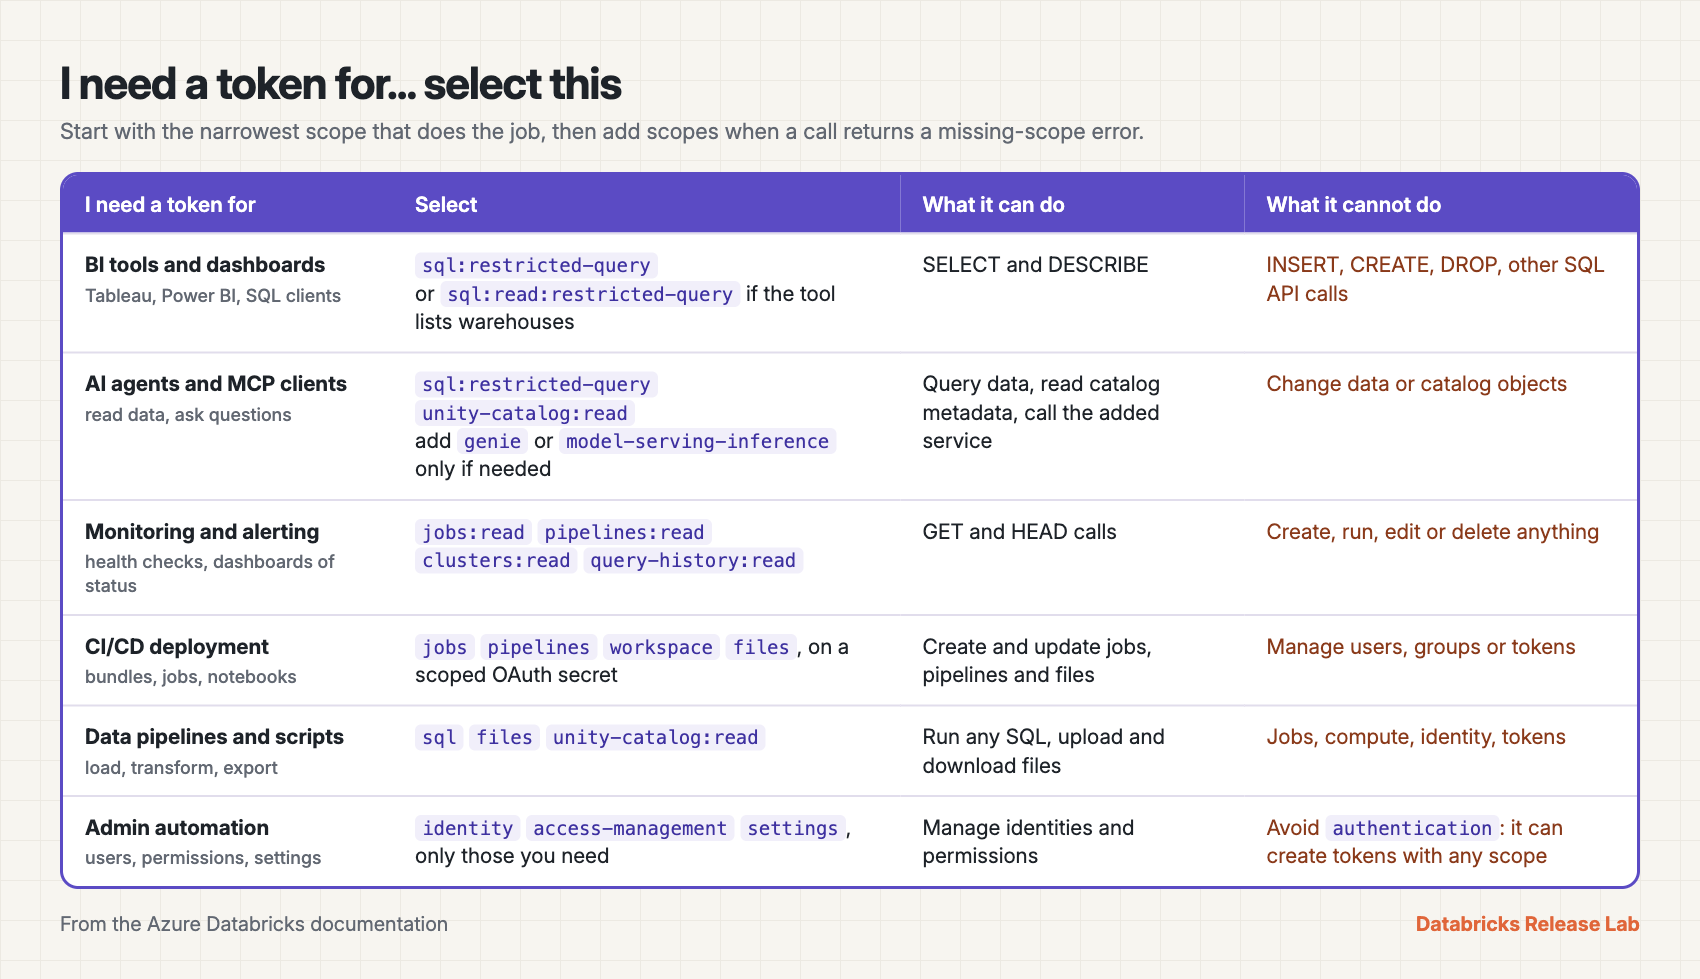
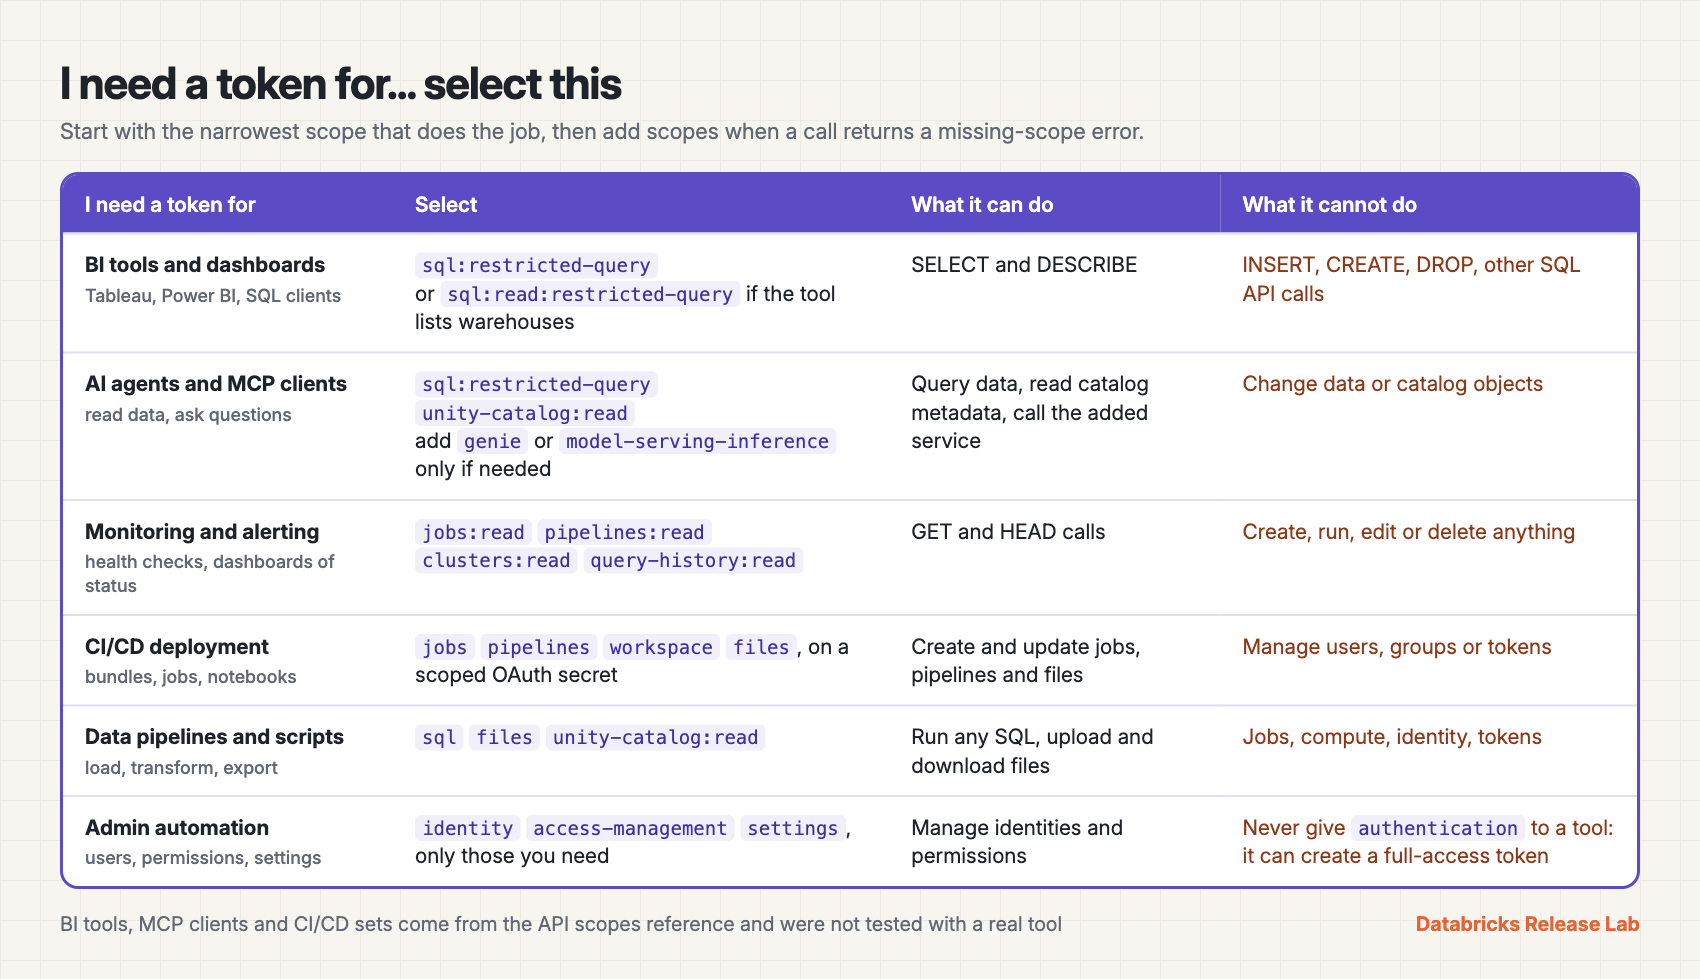
rewrite token scopes article: read trap, authentication warning, exact errors

diff --git a/databricks/token-scopes/decision-table.html b/databricks/token-scopes/decision-table.html
@@ -38,7 +38,7 @@
  <td>Run any SQL, upload and download files</td><td class="no">Jobs, compute, identity, tokens</td></tr>
 <tr><td class="use">Admin automation<span>users, permissions, settings</span></td>
  <td><code>identity</code> <code>access-management</code> <code>settings</code>, only those you need</td>
- <td>Manage identities and permissions</td><td class="no">Avoid <code>authentication</code>: it can create tokens with any scope</td></tr>
+ <td>Manage identities and permissions</td><td class="no">Never give <code>authentication</code> to a tool: it can create a full-access token</td></tr>
 </table>
-<div class="foot"><span class="l">From the Azure Databricks documentation</span><span class="r">Databricks Release Lab</span></div>
+<div class="foot"><span class="l">BI tools, MCP clients and CI/CD sets come from the API scopes reference and were not tested with a real tool</span><span class="r">Databricks Release Lab</span></div>
 </body></html>

diff --git a/databricks/token-scopes/article.md b/databricks/token-scopes/article.md
@@ -44,7 +44,7 @@ The scope list tells you which names you can use. Call the token scopes endpoint
 curl -s -H "Authorization: Bearer <token>" "<workspace-url>/api/2.0/token-scopes"
 ```
 
-The response has a `scopes` array. Each entry has `name`, `display_name`, `description` and `allowed_modifiers`. The list can include scopes that the API scopes reference does not show yet, such as `bundle`. The `allowed_modifiers` field shows only `read`, but the Token API also accepts `sql:restricted-query` and `sql:read:restricted-query`.
+The response has a `scopes` array. Each entry has `name`, `display_name`, `description` and `allowed_modifiers`. The list can include scopes that the API scopes reference does not show. A later section lists the ones found on one workspace. The `allowed_modifiers` field shows only `read`, but the Token API also accepts `sql:restricted-query` and `sql:read:restricted-query`.
 
 ### Step 2: Create a scoped token
 
@@ -87,7 +87,7 @@ curl -s -X PATCH "<workspace-url>/api/2.0/token/<token-id>" \
   -d '{"token": {"scopes": ["jobs:read"]}, "update_mask": "scopes"}'
 ```
 
-Scope changes can take up to ten minutes to propagate, so wait before you test the new scopes.
+The change took about five minutes in our test, and the documentation says it can take up to ten minutes, so wait before you test the new scopes.
 
 ### Step 5: Scope an OAuth secret for a service principal
 
@@ -105,7 +105,35 @@ The access token lasts one hour and carries the scopes you asked for. A token ca
 
 ## Choose Databricks token scopes for each use
 
-Choose scopes by what the token is for. Start with the narrowest option, and if a call fails with a missing-scope error, add the scope that the error names.
+Choose scopes by what the token is for. Start with the narrowest option, and if a call fails with a missing-scope error, add the scope that the error names. The sets for BI tools, MCP clients and bundle deployments come from the API scopes reference, not from a run with the real tool, so check them with one allowed call and one refused call before you rely on them.
+
+### Start with the :read trap
+
+The `:read` modifier means GET and HEAD requests only. Running a SQL statement through the Statement Execution API is a POST request, so a token with `sql:read` can list SQL warehouses but cannot run a `SELECT`. The call returns HTTP 403: `Provided access token has scope(s) [sql:read] that cannot send a POST request to this endpoint`.
+
+For read-only data access, use `sql:restricted-query`. If the tool also lists SQL warehouses before it connects, use `sql:read:restricted-query`. The same rule applies to other scopes: anything that starts a run, sends a query or creates a conversation is a POST and needs the scope without `:read`.
+
+### Treat the authentication scope as an admin credential
+
+A token with the `authentication` scope can create new tokens with any scope. That makes it an admin credential. Never give it to a tool, an agent or a pipeline.
+
+The scope does not look dangerous by itself. A token with only `authentication` is refused on the Jobs API:
+
+```bash
+curl -s -H "Authorization: Bearer <authentication-only-token>" "<workspace-url>/api/2.1/jobs/list?limit=1"
+# HTTP 403: Provided access token does not have required scopes: jobs
+```
+
+The same token can create a new token with an empty scopes array, which means full access, and the new token is not refused:
+
+```bash
+curl -s -X POST "<workspace-url>/api/2.0/token/create" \
+  -H "Authorization: Bearer <authentication-only-token>" -H "Content-Type: application/json" \
+  -d '{"lifetime_seconds": 600, "comment": "created by the authentication-only token", "scopes": []}'
+# HTTP 200, and the new token can call the Jobs API
+```
+
+Give `authentication` only to a token whose job is to manage other tokens, and guard it like a password.
 
 [image: decision-table.png | Caption: Scopes to select for six common uses of a token. | Alt: A table with six rows: BI tools and dashboards, AI agents and MCP clients, monitoring and alerting, CI/CD deployment, data pipelines and scripts, and admin automation. Each row lists the scopes to select, what the token can do and what it cannot do.]
 
@@ -114,24 +142,27 @@ Choose scopes by what the token is for. Start with the narrowest option, and if 
 - Scopes: `sql:restricted-query`. Use `sql:read:restricted-query` if the tool lists SQL warehouses before it connects.
 - It can run `SELECT` and `DESCRIBE`. It cannot run `INSERT`, `CREATE TABLE` or `DROP TABLE`, and it cannot call other SQL APIs.
 - Do not use this token for a tool that writes results back to a table.
+- This set comes from the API scopes reference and the SQL test above, not from a run with Tableau or Power BI.
 
 ### AI agents and MCP clients
 
 - Scopes: `sql:restricted-query` and `unity-catalog:read` for data access. Add `genie` for Genie conversations or `model-serving-inference` for model queries, only when the agent needs them.
 - It can query data and read catalog metadata. A token with `unity-catalog:read` lists catalogs but cannot create a schema.
 - Do not add `genie` casually: the scope also covers creating Genie spaces. The `:read` modifier is not enough for starting a conversation or querying an index, because those calls are not GET or HEAD requests.
+- The scopes for MCP clients come from the API scopes reference and were not tested with a real client.
 
 ### Monitoring and alerting
 
 - Scopes: `jobs:read`, `pipelines:read`, `clusters:read` and `query-history:read`, as needed.
 - It can list and get jobs, pipelines, clusters and query history. A token with `jobs:read` can list jobs but cannot create or delete one.
+- Query history is its own scope. `sql` does not cover it: a token without `query-history` gets `Provided access token does not have required scopes: query-history`.
 - Do not use it to trigger a run or a restart. Those calls are POST requests and need the full scope.
 
 ### CI/CD deployment
 
 - Scopes: start with `jobs`, `pipelines`, `workspace` and `files` on a scoped OAuth secret for a service principal, and add scopes as the deployment reports missing ones.
 - It can create and update jobs and pipelines and import files. It cannot manage users, groups or tokens.
-- Do not use a personal access token of a person for a pipeline. The documentation does not list which scopes a bundle deployment needs, so read the missing-scope errors and add only those.
+- Do not use a personal access token of a person for a pipeline. The documentation does not list which scopes a bundle deployment needs. This set comes from the API scopes reference and was not tested with a bundle deployment, so read the missing-scope errors and add only the scopes they name.
 
 ### Data pipelines and scripts
 
@@ -143,7 +174,7 @@ Choose scopes by what the token is for. Start with the narrowest option, and if 
 
 - Scopes: `identity`, `access-management` or `settings`, only the ones the script needs.
 - It can manage the identities, permissions or settings that its scope covers.
-- Do not add `authentication` unless the token manages other tokens. A token with only that scope can create a token with full access.
+- Do not add `authentication` unless the token manages other tokens, and see the warning above: it is an admin credential.
 
 ## SQL access levels, from narrowest to widest
 
@@ -153,7 +184,29 @@ SQL is where most people start, so the levels are worth knowing in order.
 - `sql:read:restricted-query`: the same queries, plus the read operations of the `sql` scope, such as listing SQL warehouses.
 - `sql`: everything in the scope, including `INSERT`, `CREATE TABLE`, `DROP TABLE` and warehouse changes. In the UI this is Read + Restricted query + Write.
 
-`sql:read` alone sits beside this list, not in it. It can list warehouses, but it cannot run a query, because running a statement is a POST request: `Provided access token has scope(s) [sql:read] that cannot send a POST request to this endpoint`. That is why the `restricted-query` modifier exists.
+`sql:read` alone sits beside this list, not in it. It lists warehouses but cannot run a query, which is the `:read` trap described above. That is why the `restricted-query` modifier exists.
+
+## Scopes in the API but not in the reference
+
+Check the scope list on your own workspace, because it can differ from the documentation. On November 28, 2026, `GET /api/2.0/token-scopes` on the workspace used for this guide returned 61 scopes, and 15 of them do not appear in the API scopes reference, which lists 46:
+
+- `ai-gateway`
+- `billing`
+- `bundle`
+- `bundle-deployments`
+- `compute-migrations`
+- `custom-llms`
+- `databricks-connect`
+- `disaster-recovery`
+- `forecasting`
+- `genie-agents`
+- `genie-migrate`
+- `provisioning`
+- `qualitymonitor`
+- `search`
+- `zerobus`
+
+The documentation does not say what these cover, so this guide does not recommend any of them. Every scope in the reference was also in the live list. Run `GET /api/2.0/token-scopes` on your workspace and compare it with the reference before you rely on a scope. The response also lists only the `read` modifier for each scope, although the Token API accepts `sql:restricted-query` and `sql:read:restricted-query`.
 
 ## Personal access tokens or OAuth secrets
 
@@ -188,13 +241,30 @@ curl -s -X POST "<workspace-url>/api/2.0/sql/statements" -H "Authorization: Bear
 
 The `SELECT` returns the rows with the state `SUCCEEDED`. The `INSERT` returns the state `FAILED` with `[OP_NOT_SUPPORTED_READ_ONLY]`, and the table keeps its original rows. The full example, including setup, every test call and cleanup, is in the [token-scopes](https://github.com/ven-nbondala-tf/databricks-release-lab/tree/main/databricks/token-scopes) folder of the repository.
 
+## The errors you will see
+
+These are the responses from a workspace on November 28, 2026. The ID and workspace values are masked.
+
+Three forms tell you a scope is missing:
+
+- The token has no scope for the API area: HTTP 403 `Provided access token does not have required scopes: jobs`.
+- The token has the scope but not for this kind of request: HTTP 403 `Provided access token has scope(s) [jobs:read] that cannot send a POST request to this endpoint`. The same form appears with `GET` for `[sql:restricted-query]` on the warehouse list.
+- An OAuth token request asks for a scope that the secret does not have: HTTP 403 `access_denied` with `Scopes 'sql' are not assigned to the client <client-id>; the client has scope(s) [sql:restricted-query] that cannot send this request`.
+
+Two more cover writing the scopes and writing data:
+
+- A scope name the API does not accept returns HTTP 400 `Invalid scopes: all-apis`. The same message appears for `all-apis:read` and for names that do not exist.
+- An `INSERT`, `CREATE TABLE` or `DROP TABLE` under `sql:restricted-query` returns HTTP 200 with the statement state `FAILED` and `[OP_NOT_SUPPORTED_READ_ONLY] ... is not supported in read-only session mode. SQLSTATE: 42KD1`. The documentation shows `[INSUFFICIENT_PERMISSIONS]` for data changes, but the Statement Execution API returned `OP_NOT_SUPPORTED_READ_ONLY` for `INSERT` as well as for DDL.
+
+An OAuth token request that asks for more than its secret allows is refused with the 403 `access_denied` above. It is not narrowed to the secret's scopes.
+
 ## Things to know
 
-- Use the missing-scope error to find the scope. A call to the Jobs API with a `sql` token returns HTTP 403 with `Provided access token does not have required scopes: jobs`. A call with the right scope but the wrong method returns `Provided access token has scope(s) [jobs:read] that cannot send a POST request to this endpoint`.
-- Write the scopes exactly. An unknown name returns HTTP 400 with `Invalid scopes: <name>`. The literal `all-apis` and `all-apis:read` are not accepted for personal access tokens. For full access, send an empty `scopes` array.
-- The `authentication` scope removes the limit. A token with only `authentication` is refused on the Jobs API, but it can create a new token with an empty scopes array that is not refused. Give the scope only to tokens that manage tokens.
-- Wait after you change scopes. A PATCH on a personal access token can take up to ten minutes to apply, so test after the wait, not right after the call. To change the scopes of an OAuth secret, generate a new secret.
-- Check the scope for the data you need. Query history needs the `query-history` scope, not `sql`, and a few scopes in the live list, such as `bundle`, have no entry in the API scopes reference. When the documentation does not say what a scope covers, create a test token and read the error.
+- Treat `authentication` as an admin credential. A token with that scope can mint a full-access token, as shown above.
+- A scope change takes time. A PATCH on a personal access token took about five minutes in our test, and the documentation says up to ten, so test after the wait. To change the scopes of an OAuth secret, generate a new secret.
+- Send an empty `scopes` array for full access. The literal `all-apis` is not accepted for personal access tokens, and neither is `all-apis:read`.
+- Query history needs the `query-history` scope, not `sql`.
+- When the documentation does not say what a scope covers, create a short-lived test token and read the error. Do this for any scope that is in your workspace list but not in the reference.
 
 ## Best practices
 
